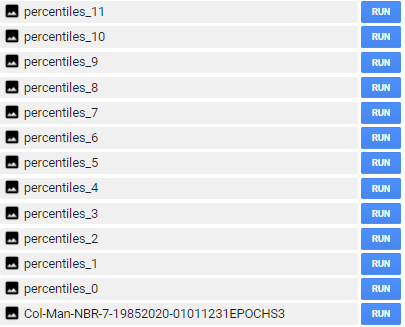
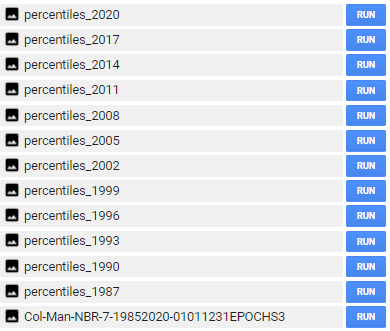
v31

diff --git a/docs/mapping-mangroves-using-landsat.html b/docs/mapping-mangroves-using-landsat.html
@@ -156,6 +156,7 @@ code span.wa { color: #60a0b0; font-weight: bold; font-style: italic; } /* Warni
 </ul></li>
 <li class="divider"></li>
 <li><a href="https://mangrovescience.org/"</a></li>
+
 </ul>
 
       </nav>
@@ -255,24 +256,31 @@ Figure 3.3: Epochs
 </div>
 <div id="adding-percentiles" class="section level3" number="3.1.4">
 <h3><span class="header-section-number">3.1.4</span> Adding percentiles</h3>
-<p>Medoid is a good strategy to create our composites. However, we can add more spectral information to improve classification of similar land cover classes. In the same code we add the Percentile 20, 80 and Standard Deviation.
+<p>Medoid is a good strategy to create our composites. However, we can add more spectral information to improve classification. Using the same code we added the Percentile 20, 80 and Standard Deviation.
 Before running the code, you must create an ImageCollection in you Earth Engine account. This Collection will host all these additional information.</p>
-<p>You can just go to Assest Tab, New, Image Collection. Once you create it you can modify the assetId name:</p>
+<p>To create an ImageCollection: You can just go to Assest Tab, New, Image Collection.</p>
+<div class="figure"><span id="fig:my-fig6"></span>
+<img src="images/imagecol.PNG" alt="Create a ImageCollection" width="30%" />
+<p class="caption">
+Figure 3.4: Create a ImageCollection
+</p>
+</div>
+<p>Once you create it you can modify the assetId name:</p>
 <div class="sourceCode" id="cb15"><pre class="sourceCode r"><code class="sourceCode r"><span id="cb15-1"><a href="mapping-mangroves-using-landsat.html#cb15-1" aria-hidden="true" tabindex="-1"></a>percentil</span>
-<span id="cb15-2"><a href="mapping-mangroves-using-landsat.html#cb15-2" aria-hidden="true" tabindex="-1"></a><span class="fu">.aggregate_array</span>(<span class="st">&#39;system:index&#39;</span>)</span>
-<span id="cb15-3"><a href="mapping-mangroves-using-landsat.html#cb15-3" aria-hidden="true" tabindex="-1"></a><span class="fu">.evaluate</span>(<span class="cf">function</span> (systemIndexes) {</span>
-<span id="cb15-4"><a href="mapping-mangroves-using-landsat.html#cb15-4" aria-hidden="true" tabindex="-1"></a>  <span class="fu">systemIndexes.forEach</span>(<span class="cf">function</span> (systemIndex, i) {</span>
+<span id="cb15-2"><a href="mapping-mangroves-using-landsat.html#cb15-2" aria-hidden="true" tabindex="-1"></a><span class="fu">.aggregate_array</span>(<span class="st">&#39;composite_year&#39;</span>)</span>
+<span id="cb15-3"><a href="mapping-mangroves-using-landsat.html#cb15-3" aria-hidden="true" tabindex="-1"></a><span class="fu">.evaluate</span>(<span class="cf">function</span> (composite_year) {</span>
+<span id="cb15-4"><a href="mapping-mangroves-using-landsat.html#cb15-4" aria-hidden="true" tabindex="-1"></a>  <span class="fu">composite_year.forEach</span>(<span class="cf">function</span> (year, i) {</span>
 <span id="cb15-5"><a href="mapping-mangroves-using-landsat.html#cb15-5" aria-hidden="true" tabindex="-1"></a>  <span class="sc">/</span><span class="er">/</span> <span class="fu">print</span>(i) <span class="sc">/</span><span class="er">/</span> This is your <span class="dv">0</span><span class="sc">-</span>based index</span>
 <span id="cb15-6"><a href="mapping-mangroves-using-landsat.html#cb15-6" aria-hidden="true" tabindex="-1"></a>  var image <span class="ot">=</span> percentil</span>
-<span id="cb15-7"><a href="mapping-mangroves-using-landsat.html#cb15-7" aria-hidden="true" tabindex="-1"></a>      <span class="fu">.filterMetadata</span>(<span class="st">&#39;system:index&#39;</span>, <span class="st">&#39;equals&#39;</span>, systemIndex)</span>
+<span id="cb15-7"><a href="mapping-mangroves-using-landsat.html#cb15-7" aria-hidden="true" tabindex="-1"></a>      <span class="fu">.filterMetadata</span>(<span class="st">&#39;composite_year&#39;</span>, <span class="st">&#39;equals&#39;</span>, year)</span>
 <span id="cb15-8"><a href="mapping-mangroves-using-landsat.html#cb15-8" aria-hidden="true" tabindex="-1"></a>      <span class="fu">.first</span>();</span>
-<span id="cb15-9"><a href="mapping-mangroves-using-landsat.html#cb15-9" aria-hidden="true" tabindex="-1"></a>    var oldIndex <span class="ot">=</span> <span class="fu">msToFrac</span>(<span class="fu">image.get</span>(<span class="st">&#39;system:time_start&#39;</span>))<span class="fu">.int16</span>(); <span class="sc">/</span><span class="er">/</span>get mills to year</span>
-<span id="cb15-10"><a href="mapping-mangroves-using-landsat.html#cb15-10" aria-hidden="true" tabindex="-1"></a>    image <span class="ot">=</span> <span class="fu">image.set</span>(<span class="st">&#39;composite_year&#39;</span>, oldIndex)<span class="fu">.clip</span>(featureCol);</span>
+<span id="cb15-9"><a href="mapping-mangroves-using-landsat.html#cb15-9" aria-hidden="true" tabindex="-1"></a>    <span class="sc">/</span><span class="er">/</span>var oldIndex <span class="ot">=</span> <span class="fu">msToFrac</span>(<span class="fu">image.get</span>(<span class="st">&#39;system:time_start&#39;</span>))<span class="fu">.int16</span>(); <span class="sc">/</span><span class="er">/</span>get mills to year</span>
+<span id="cb15-10"><a href="mapping-mangroves-using-landsat.html#cb15-10" aria-hidden="true" tabindex="-1"></a>   <span class="sc">/</span><span class="er">/</span> image <span class="ot">=</span> <span class="fu">image.set</span>(<span class="st">&#39;composite_year&#39;</span>, oldIndex)<span class="fu">.clip</span>(featureCol);</span>
 <span id="cb15-11"><a href="mapping-mangroves-using-landsat.html#cb15-11" aria-hidden="true" tabindex="-1"></a>    <span class="sc">/</span><span class="er">/</span><span class="fu">print</span> (image)  </span>
 <span id="cb15-12"><a href="mapping-mangroves-using-landsat.html#cb15-12" aria-hidden="true" tabindex="-1"></a>    <span class="fu">Export.image.toAsset</span>({</span>
 <span id="cb15-13"><a href="mapping-mangroves-using-landsat.html#cb15-13" aria-hidden="true" tabindex="-1"></a>      image<span class="sc">:</span> image,</span>
-<span id="cb15-14"><a href="mapping-mangroves-using-landsat.html#cb15-14" aria-hidden="true" tabindex="-1"></a>      description<span class="sc">:</span> <span class="st">&#39;percentiles_&#39;</span> <span class="sc">+</span> i,</span>
-<span id="cb15-15"><a href="mapping-mangroves-using-landsat.html#cb15-15" aria-hidden="true" tabindex="-1"></a>      assetId<span class="sc">:</span> <span class="st">&#39;YourCollectionName/percentiles_&#39;</span> <span class="sc">+</span> i, </span>
+<span id="cb15-14"><a href="mapping-mangroves-using-landsat.html#cb15-14" aria-hidden="true" tabindex="-1"></a>      description<span class="sc">:</span> <span class="st">&#39;percentiles_&#39;</span> <span class="sc">+</span> year,</span>
+<span id="cb15-15"><a href="mapping-mangroves-using-landsat.html#cb15-15" aria-hidden="true" tabindex="-1"></a>      assetId<span class="sc">:</span> <span class="st">&#39;YourCollectionName/percentiles_&#39;</span> <span class="sc">+</span> year, </span>
 <span id="cb15-16"><a href="mapping-mangroves-using-landsat.html#cb15-16" aria-hidden="true" tabindex="-1"></a>      crs<span class="sc">:</span> outProj,</span>
 <span id="cb15-17"><a href="mapping-mangroves-using-landsat.html#cb15-17" aria-hidden="true" tabindex="-1"></a>      scale<span class="sc">:</span> <span class="dv">30</span>,</span>
 <span id="cb15-18"><a href="mapping-mangroves-using-landsat.html#cb15-18" aria-hidden="true" tabindex="-1"></a>      maxPixels<span class="sc">:</span> <span class="fl">1e13</span>,</span>
@@ -284,17 +292,17 @@ Before running the code, you must create an ImageCollection in you Earth Engine 
 <div id="exporting-assets" class="section level3" number="3.1.5">
 <h3><span class="header-section-number">3.1.5</span> Exporting assets</h3>
 <p>After you remove bad images and change parameters you can export the fitted image plus the percentiles as an ImageCollection. Given this process is very demanding computationally it might takes some minutes after you are able export the data. You should see something like this:</p>
-<div class="figure"><span id="fig:my-fig6"></span>
-<img src="images/tasks.PNG" alt="Tasks" width="80%" />
+<div class="figure"><span id="fig:my-fig7"></span>
+<img src="images/tasks.PNG" alt="Tasks" width="50%" />
 <p class="caption">
-Figure 3.4: Tasks
+Figure 3.5: Tasks
 </p>
 </div>
 </div>
 </div>
 <div id="building-3-years-composite-maps" class="section level2" number="3.2">
 <h2><span class="header-section-number">3.2</span> Building 3-years composite maps</h2>
-<p>Once you save the fitted image data and the percentiles we can combine them into a final ImageCollection to run the classification process.</p>
+<p>Once you save the fitted image data and the percentiles we can combine them into a final ImageCollection to run th classification proces for each 3-year composite.</p>
 
 </div>
 </div>
@@ -335,7 +343,7 @@ gitbook.start({
 "size": 2
 },
 "edit": {
-"link": "https://github.com/paulomur/mangroves/edit/master/3Landsat.Rmd",
+"link": "https://github.com/rstudio/bookdown-demo/edit/master/3Landsat.Rmd",
 "text": "Edit"
 },
 "history": {

diff --git a/docs/mapping-mangroves-using-sentinel12.html b/docs/mapping-mangroves-using-sentinel12.html
@@ -156,6 +156,7 @@ code span.wa { color: #60a0b0; font-weight: bold; font-style: italic; } /* Warni
 </ul></li>
 <li class="divider"></li>
 <li><a href="https://mangrovescience.org/"</a></li>
+
 </ul>
 
       </nav>
@@ -175,7 +176,7 @@ code span.wa { color: #60a0b0; font-weight: bold; font-style: italic; } /* Warni
             <section class="normal" id="section-">
 <div id="mapping-mangroves-using-sentinel12" class="section level1" number="2">
 <h1><span class="header-section-number">2</span> Mapping mangroves using Sentinel1&amp;2</h1>
-<p>We use Colombia as study region for this analysis. However, our analysis can be applied everywhere. The steps to map mangroves and other common land cover classes are:</p>
+<p>We use Colombia as study region for this analysis. However, our method can be applied everywhere. The steps to map mangroves and other common land cover classes are:</p>
 <ol style="list-style-type: decimal">
 <li>Pre-processing/Exporting Sentinel-1 and Sentinel-2</li>
 <li>Organizing a basemap (get training data!!!)</li>
@@ -222,7 +223,7 @@ Get all S2 images based on parameters.</p>
 <p>and to apply cloud masking and shadow masking</p>
 <div class="sourceCode" id="cb4"><pre class="sourceCode r"><code class="sourceCode r"><span id="cb4-1"><a href="mapping-mangroves-using-sentinel12.html#cb4-1" aria-hidden="true" tabindex="-1"></a>var s2 <span class="ot">=</span> <span class="fu">s2_sr_cld_col_eval.map</span>(<span class="cf">function</span>(img){return <span class="fu">man.add_cld_shdw_mask</span>(img, params)});</span>
 <span id="cb4-2"><a href="mapping-mangroves-using-sentinel12.html#cb4-2" aria-hidden="true" tabindex="-1"></a>s2 <span class="ot">=</span><span class="fu">s2.map</span>(<span class="cf">function</span>(img){return <span class="fu">man.apply_cld_shdw_mask</span>(img, params)});</span></code></pre></div>
-<p>See the rest of the script on the repository <a href="https://code.earthengine.google.com/b0f683d0e8d16299980d7336f6209640" target="_blank"><strong>1.Export_S1_S2_composite</strong></a></p>
+<p>See the rest of the script on the repository <strong>1.Export_S1_S2_composite</strong></p>
 </div>
 <div id="organizing-a-basemap-get-training-data" class="section level2" number="2.2">
 <h2><span class="header-section-number">2.2</span> Organizing a basemap (get training data)</h2>
@@ -235,7 +236,7 @@ See official CLC documentation can be found <a href="http://documentacion.ideam.
 3. Dense Forest &gt;80% tree canopy cover
 4. Non-forest &lt;20% tree canopy cover
 5. Other vegetation (shurb, herbaceous, wet forest)</p>
-<p>The code used <a href="https://code.earthengine.google.com/41966d94c620cb879ce4c8f768f20005" target="_blank"><strong>2.Classification_S1_S2</strong></a></p>
+<p>The code used <strong>2.Classification_S1_S2</strong> is located in the repository.</p>
 <p>This function add specific land cover types.</p>
 <div class="sourceCode" id="cb5"><pre class="sourceCode r"><code class="sourceCode r"><span id="cb5-1"><a href="mapping-mangroves-using-sentinel12.html#cb5-1" aria-hidden="true" tabindex="-1"></a>var man <span class="ot">=</span> <span class="fu">require</span>(<span class="st">&#39;users/murillop/NASA_mangroves:mangroves&#39;</span>);</span>
 <span id="cb5-2"><a href="mapping-mangroves-using-sentinel12.html#cb5-2" aria-hidden="true" tabindex="-1"></a><span class="co"># Get Corine Land cover classes</span></span>
@@ -305,7 +306,7 @@ NBR, NDVI, NDMI, MNDWI, MVI, CMRI, GLCM (8 metrics). If you want to add your a d
 <div id="accuracy-and-cleaning-the-final-product" class="section level2" number="2.4">
 <h2><span class="header-section-number">2.4</span> Accuracy and cleaning the final product</h2>
 <p>A basic accuracy assessment using the testing points help us to understand how well the classification process performs.
-See code <a href="https://code.earthengine.google.com/e56df0dfddb41c164f3fd755b9e1572a"><strong>3.Accuracy_test_S1_S2</strong></a></p>
+See code <strong>3.Accuracy_test_S1_S2</strong></p>
 <p>Finally, post-processing is needed to clean ou final map. Using the Digital Elevation model
 and some geometries for the Caribean and Pacific regions were used to produce the final map.
 See code <a href="https://code.earthengine.google.com/64ce97bd8496f55a3d91d476a3965dfe"><strong>4.Cleaning S1_S2_classification</strong></a></p>
@@ -355,7 +356,7 @@ gitbook.start({
 "size": 2
 },
 "edit": {
-"link": "https://github.com/paulomur/mangroves/edit/master/2sentinel.Rmd",
+"link": "https://github.com/rstudio/bookdown-demo/edit/master/2sentinel.Rmd",
 "text": "Edit"
 },
 "history": {

diff --git a/docs/index.html b/docs/index.html
@@ -156,6 +156,7 @@ code span.wa { color: #60a0b0; font-weight: bold; font-style: italic; } /* Warni
 </ul></li>
 <li class="divider"></li>
 <li><a href="https://mangrovescience.org/"</a></li>
+
 </ul>
 
       </nav>
@@ -228,7 +229,7 @@ gitbook.start({
 "size": 2
 },
 "edit": {
-"link": "https://github.com/paulomur/mangroves/edit/master/index.Rmd",
+"link": "https://github.com/rstudio/bookdown-demo/edit/master/index.Rmd",
 "text": "Edit"
 },
 "history": {
